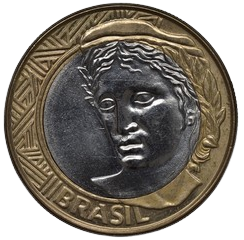
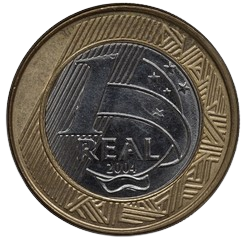
fix: rename coroa to cara and vice-versa
* Rename `assets/coroa.png` to `assets/cara.png` and vice-versa
* Keep coroa showing up in docs and icons as the logo

diff --git a/index.html b/index.html
@@ -5,7 +5,7 @@
   <meta charset="UTF-8" />
   <meta name="viewport" content="width=device-width, initial-scale=1.0" />
   <title>Decide aí</title>
-  <link rel="icon" href="assets/cara.png" />
+  <link rel="icon" href="assets/coroa.png" />
   <link rel="stylesheet" href="style.css" />
   <script src="theme.js" defer></script>
   <script src="game.js" defer></script>
@@ -19,15 +19,17 @@
   </header>
 
   <main>
-    <img id="coin" src="assets/cara.png" alt="moeda de um real com a cara virada para cima" width="220" height="220" />
+    <img id="coin" src="assets/coroa.png" alt="moeda de um real com a coroa virada para cima" width="220"
+      height="220" />
 
-    <p>O resultado é <span id="result" class="cara">cara</span></p>
+    <p>O resultado é <span id="result" class="coroa">coroa</span></p>
 
     <button id="flip-coin">Jogar moeda</button>
   </main>
 
   <footer>
-    <p>Construído por <a href="https://kauefraga.dev/">Kauê Fraga Rodrigues</a></p>
+    <p>Construído por <a href="https://kauefraga.dev/" target="_blank">Kauê Fraga Rodrigues</a>. Veja o <a
+        href="https://github.com/kauefraga/decide-ai" target="_blank">repositório</a>.</p>
   </footer>
 </body>
 

diff --git a/README.md b/README.md
@@ -1,4 +1,4 @@
-# Decide aí <img src="assets/cara.png" alt="moeda de um real com a cara para cima" width="40" height="40" align="center" />
+# Decide aí <img src="assets/coroa.png" alt="moeda de um real com a coroa para cima" width="40" height="40" align="center" />
 
 [![Licença do projeto Decide Aí](https://img.shields.io/github/license/kauefraga/constantia)](https://github.com/kauefraga/decide-ai/blob/main/LICENSE)
 [![Último commit](https://img.shields.io/github/last-commit/kauefraga/decide-ai/main)](https://github.com/kauefraga/constantia)
@@ -8,6 +8,7 @@ Quer tomar alguma decisão 50/50? [**Decide aí** usando o tradicional cara ou c
 Usando HTML, CSS e JavaScript puro, implementei
 
 - [x] Tradicional jogo cara ou coroa, usando a moeda de 1 real
+- [x] Layout simples e responsivo
 - [x] Tema claro e escuro
 - [x] Animação da moeda girando
 - [ ] Múltiplos idiomas
